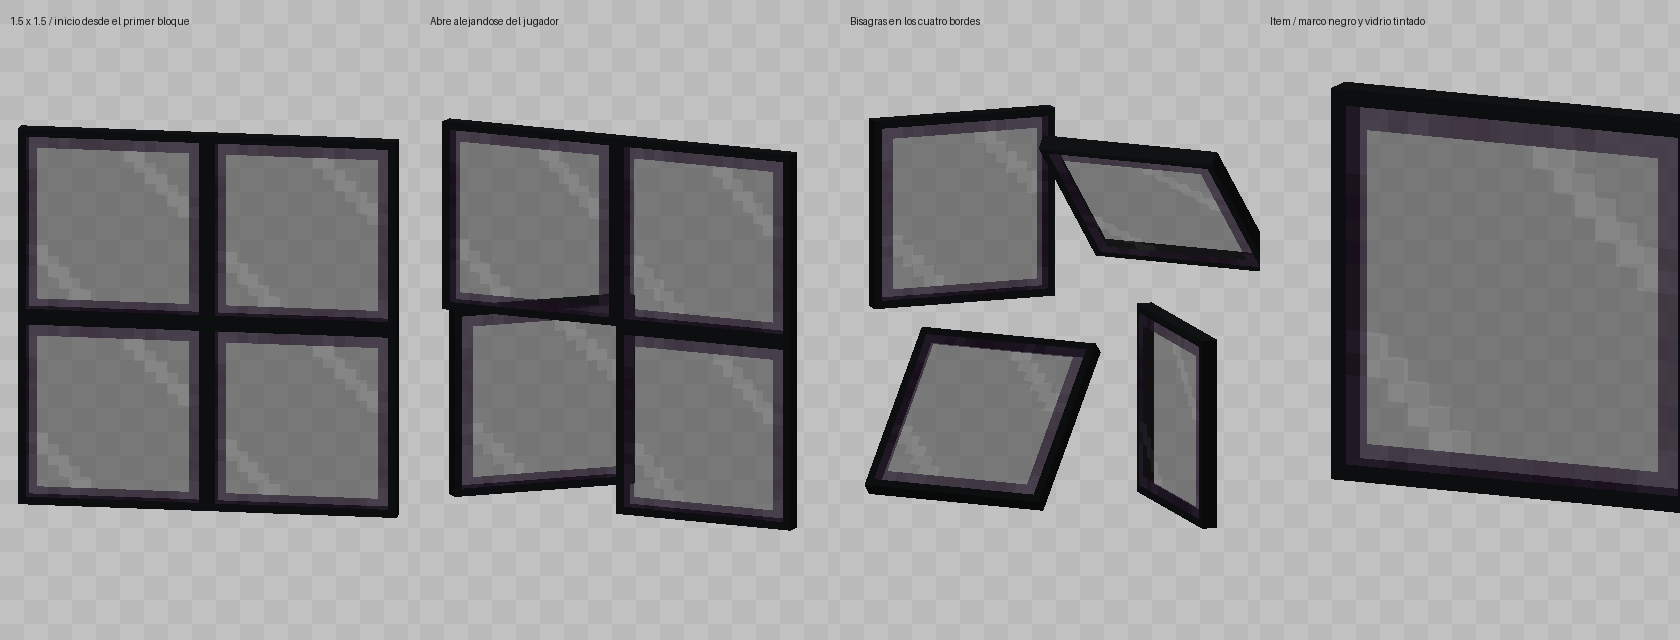
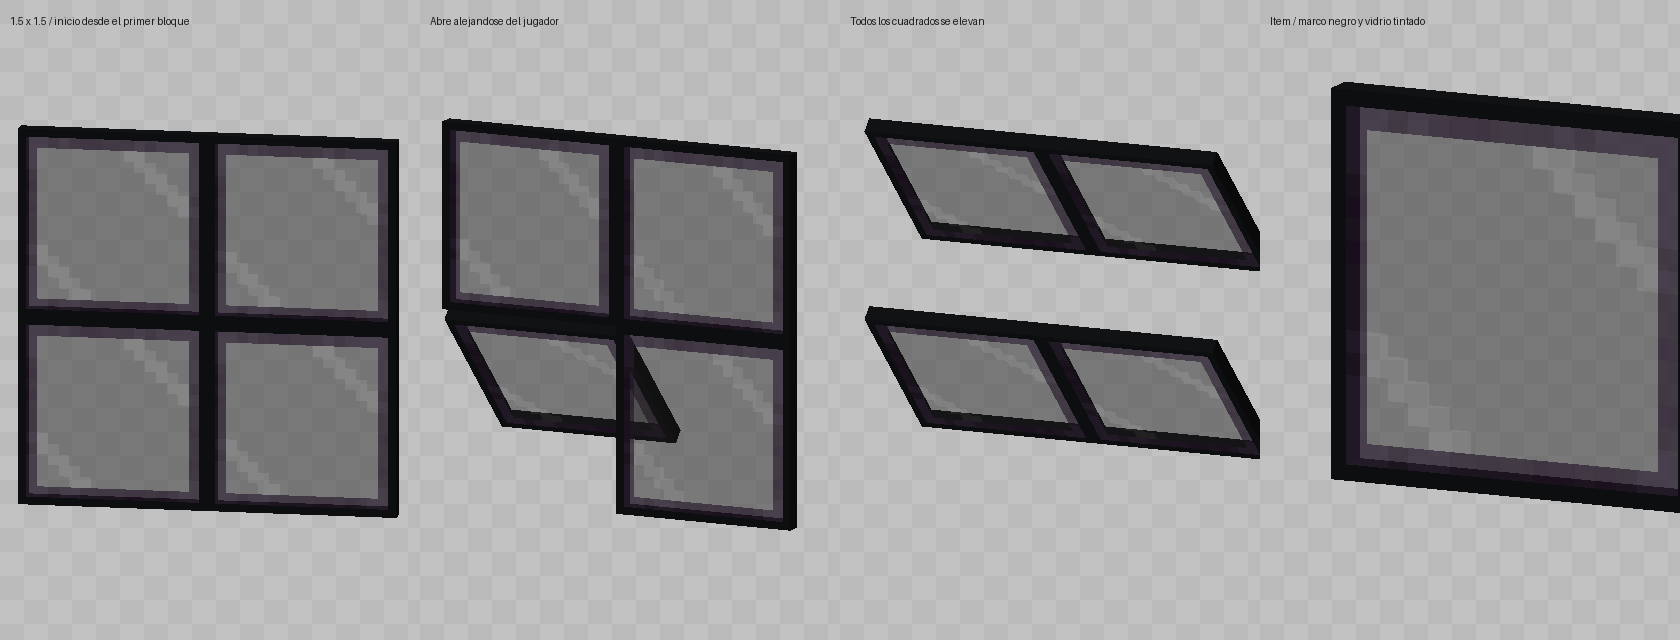
Open all projecting window panes upward on the top hinge

Changed region(s): [[0.4952, 0.1562, 0.7738, 0.8438], [0.2476, 0.4375, 0.4024, 0.7812], [0.4952, 0.0312, 0.5881, 0.0625]]

diff --git a/src/main/java/net/nicomar2009/lsmmod/block/SchoolProjectingWindowBlock.java b/src/main/java/net/nicomar2009/lsmmod/block/SchoolProjectingWindowBlock.java
@@ -41,7 +41,6 @@ public class SchoolProjectingWindowBlock extends Block {
     public static final EnumProperty<ProjectingWindowHinge> HINGE=EnumProperty.create("hinge",ProjectingWindowHinge.class);
     public static final IntegerProperty GRID_PHASE=IntegerProperty.create("grid_phase",0,9);
     public static final BooleanProperty WALL_LEFT=BooleanProperty.create("wall_left");
-    private static final int SCAN_LIMIT=64;
     /** Cell bounds and full pane origin in local north-facing coordinates. */
     public record Part(int x0,int x1,int y0,int y1,int ox,int oy) {}
     private record Axis(int low,int high,int origin) {}
@@ -120,14 +119,14 @@ public class SchoolProjectingWindowBlock extends Block {
         }
         return true;
     }
-    /** Closed fallback for missing controllers/chunks or a stale renderer state. */
+    /** All open sashes use the top hinge, including old saves with a different stored HINGE. */
     public static int pose(BlockGetter level,BlockPos pos,BlockState state,int index) {
         if(state==null||!(state.getBlock() instanceof SchoolProjectingWindowBlock)||pos==null)return 0;
         List<Part> parts=parts(state);
         if(index<0||index>=parts.size()||!visible(parts.get(index))||!same(read(level,pos),state))return 0;
         BlockPos origin=controller(pos,state.getValue(FACING).getClockWise(),parts.get(index));
         BlockState value=read(level,origin);
-        return same(value,state)&&complete(level,origin,state)&&value.getValue(OPEN)?1+value.getValue(HINGE).ordinal():0;
+        return same(value,state)&&complete(level,origin,state)&&value.getValue(OPEN)?1:0;
     }
     private static double[] pivot(Part part,int pose) {
         return new double[]{part.ox+(pose==4?24:0),part.oy+(pose==1?24:0),16};
@@ -272,41 +271,6 @@ public class SchoolProjectingWindowBlock extends Block {
         }
         return best;
     }
-    private static ProjectingWindowHinge nearestWall(Level level,BlockPos origin,BlockState state) {
-        Direction right=state.getValue(FACING).getClockWise();
-        Direction[] directions={Direction.UP,Direction.DOWN,right.getOpposite(),right};
-        ProjectingWindowHinge best=ProjectingWindowHinge.TOP;double nearest=Double.POSITIVE_INFINITY;
-        int grid=phase(level.getBlockState(origin));
-        int ox=grid%3==1?8:0,oy=grid/3==1?8:0;
-        int paneWidth=24,paneHeight=24;
-        for(int edge=0;edge<directions.length;edge++) {
-            // A solid half beside the shared sash is a wall at the sash edge.
-            if(edge>=2)for(int line=0;line<2;line++) {
-                BlockState boundary=read(level,origin.relative(right,edge==2?0:1).above(line));
-                if(halfWindow(boundary)&&boundary.getValue(WALL_LEFT)==(edge==2)
-                        &&(edge==2?ox==8:ox==0)&&nearest>0) {
-                    nearest=0;best=ProjectingWindowHinge.values()[edge];
-                }
-            }
-            for(int line=0;line<2;line++) {
-            Direction direction=directions[edge];boolean vertical=edge<2;
-            BlockPos start=vertical?origin.relative(right,line):origin.above(line);
-            for(int step=1;step<=SCAN_LIMIT;step++) {
-                BlockPos target=start.relative(direction,step);
-                if(!level.hasChunkAt(target)||level.isOutsideBuildHeight(target))break;
-                BlockState neighbor=level.getBlockState(target);
-                if(same(neighbor,state))continue;
-                if(neighbor.isFaceSturdy(level,target,direction.getOpposite())) {
-                    int offset=vertical?oy:ox;
-                    double distance=edge==0||edge==3?step*16-offset-(vertical?paneHeight:paneWidth):(step-1)*16+offset;
-                    if(distance<nearest){nearest=distance;best=ProjectingWindowHinge.values()[edge];}
-                }
-                break;
-            }
-            }
-        }
-        return best;
-    }
     private static void refresh(Level level,BlockPos origin,Direction facing) {
         Direction right=facing.getClockWise();
         for(int y=-1;y<=2;y++)for(int x=-1;x<=2;x++) {
@@ -335,7 +299,7 @@ public class SchoolProjectingWindowBlock extends Block {
         }
         if(level.isClientSide())return InteractionResult.SUCCESS;
         BlockState value=level.getBlockState(origin);boolean open=!value.getValue(OPEN);
-        ProjectingWindowHinge hinge=open?nearestWall(level,origin,state):value.getValue(HINGE);
+        ProjectingWindowHinge hinge=ProjectingWindowHinge.TOP;
         level.setBlock(origin,value.setValue(OPEN,open).setValue(HINGE,hinge),Block.UPDATE_ALL);
         refresh(level,origin,facing);
         level.playSound(null,pos,open?SoundEvents.IRON_DOOR_OPEN:SoundEvents.IRON_DOOR_CLOSE,SoundSource.BLOCKS,.4F,1.2F);

diff --git a/tools/render_school_projecting_window.py b/tools/render_school_projecting_window.py
@@ -23,13 +23,13 @@ def scene(poses, width=3, height=3):
 def main():
     closed = scene({})
     # A 3x3-block opening contains exactly four 24x24-pixel panes.
-    independent = scene({(0, 0): 3})
-    all_edges = scene({(0, 0): 2, (1, 0): 4, (0, 1): 3, (1, 1): 1})
+    independent = scene({(0, 0): 1})
+    all_edges = scene({(0, 0): 1, (1, 0): 1, (0, 1): 1, (1, 1): 1})
     item = []; add(item, load('lsmmod:item/'+ID))
     canvas = Image.new('RGB', (1680, 640))
     cases = [('1.5 x 1.5 / inicio desde el primer bloque', closed, [24, 24, 16], 8, -80),
              ('Abre alejandose del jugador', independent, [24, 24, 18], 8, -65),
-             ('Bisagras en los cuatro bordes', all_edges, [24, 24, 18], 8, -65),
+             ('Todos los cuadrados se elevan', all_edges, [24, 24, 18], 8, -65),
              ('Item / marco negro y vidrio tintado', item, [8, 8, 8], 25, -65)]
     for index, (label, elements, center, scale, azimuth) in enumerate(cases):
         canvas.paste(render(elements, center, scale, size=(420, 640), azimuth=azimuth, elevation=12), (420*index, 0))
@@ -41,8 +41,8 @@ def main():
         ImageDraw.Draw(reverse).text((420*index+10, 15), label, fill=(25, 25, 25))
     reverse.save(ROOT/'previews/school_projecting_window_reverse_review.png')
     half = Image.new('RGB',(1680,640))
-    cases=(('left',0,0,'Panel compartido / cerrado'),('left',3,4,'Panel compartido / abierto'),
-           ('right',4,2,'Mitad derecha / panel compartido'),('item',0,0,'Item / mitad fija'))
+    cases=(('left',0,0,'Panel compartido / cerrado'),('left',1,4,'Panel compartido / abierto'),
+           ('right',1,2,'Mitad derecha / panel compartido'),('item',0,0,'Item / mitad fija'))
     for index,(side,pose,color,label) in enumerate(cases):
         geometry=[]
         if side=='item':add(geometry,load('lsmmod:item/'+PAINTABLE_ID))

diff --git a/docs/BLOCK_SPECS.md b/docs/BLOCK_SPECS.md
@@ -18,8 +18,8 @@ Inventario real: `registry/ModBlocks.java` y `ModItems.java`. Para generar model
 | Enfermería | Sobreluz tintado y cristal posterior lateral desde y16; conexiones `main`/`side` independientes. dining_door_wide_light cambia solo el frente del lateral a light_school_wall |
 | Vidrio/cortinas | Cristal 8 px; conexiones por huella real y marcos por paridad de fila. Cortinas en áreas completas 1–4 de ancho × 1–8 de alto, dos clics; Shift al aire cancela. Un ítem/reembolso por área; puertas excluidas |
 | Vidrio tintado | school_tinted_glass: opaco sin conexión; school_connected_tinted_glass: misma opacidad con conexiones/cortinas. No convertirlo en vidrio transparente |
-| Ventanas proyectantes | school_projecting_window: grosor 2 px, marco negro y tintado vanilla oscurecido conservando alfa. Cuadrados de 1,5×1,5: el primer bloque inicia la retícula (fase cero), los siguientes prolongan ese origen; no depende de coordenadas mundiales. Plano en el borde más alejado del jugador y apertura a 45° en la dirección en que miraba al colocar. Cada cuadrado completo abre/cierra solo; bisagra hacia el borde firme más cercano de los cuatro lados. Conserva OPEN/HINGE; las ventanas antiguas sin fase se adaptan al usarlas o extenderlas, sin borrar esos campos (hasta 4096 celdas cargadas). No admite cortinas. Colisión girada aproximada por cuarto de píxel y contornos sencillos, caché por geometría/poses. Generador `tools/create_school_projecting_window_assets.py`; check `tools/check_school_glass.py --projecting-only`. Compilación y prueba en Minecraft pendientes. |
-| Mitad pintable y ventana | school_paintable_projecting_window: mitad sólida lateral (8×16×16 px) y cristal de 2 px en el borde lejano, integrado en la retícula de 24×24 px de las ventanas normales adyacentes. Los fragmentos comparten panel, bisagra y apertura; no forman hojas pequeñas independientes. El clic de colocación elige el lado sólido; la hoja abre a 45° con la misma dirección y selección de bisagra que la ventana normal. Solo el cristal se mueve. La mitad sólida usa los seis colores por cara y NBT del bloque pintable, incluidos pintura, copia, limpiador, lija y rectángulos; ninguna herramienta pinta el cristal o el marco. Pintura y apertura se guardan por separado, sin ticker para la pintura. Disponible en School Blocks. Comprobación `tools/check_paintable_school_block.py --projecting-half-only`; preview externa `previews/school_paintable_projecting_window_review.png`. |
+| Ventanas proyectantes | school_projecting_window: grosor 2 px, marco negro y tintado vanilla oscurecido conservando alfa. Cuadrados de 1,5×1,5: el primer bloque inicia la retícula (fase cero), los siguientes prolongan ese origen; no depende de coordenadas mundiales. Plano en el borde más alejado del jugador y apertura a 45° en la dirección en que miraba al colocar. Cada cuadrado completo abre/cierra solo; bisagra siempre superior: la parte inferior se eleva al abrir, también en ventanas ya guardadas. Conserva OPEN/HINGE; las ventanas antiguas sin fase se adaptan al usarlas o extenderlas, sin borrar esos campos (hasta 4096 celdas cargadas). No admite cortinas. Colisión girada aproximada por cuarto de píxel y contornos sencillos, caché por geometría/poses. Generador `tools/create_school_projecting_window_assets.py`; check `tools/check_school_glass.py --projecting-only`. Compilación y prueba en Minecraft pendientes. |
+| Mitad pintable y ventana | school_paintable_projecting_window: mitad sólida lateral (8×16×16 px) y cristal de 2 px en el borde lejano, integrado en la retícula de 24×24 px de las ventanas normales adyacentes. Los fragmentos comparten panel, bisagra y apertura; no forman hojas pequeñas independientes. El clic de colocación elige el lado sólido; la hoja abre a 45° con la misma dirección y bisagra superior que la ventana normal. Solo el cristal se mueve. La mitad sólida usa los seis colores por cara y NBT del bloque pintable, incluidos pintura, copia, limpiador, lija y rectángulos; ninguna herramienta pinta el cristal o el marco. Pintura y apertura se guardan por separado, sin ticker para la pintura. Disponible en School Blocks. Comprobación `tools/check_paintable_school_block.py --projecting-half-only`; preview externa `previews/school_paintable_projecting_window_review.png`. |
 | Baldosas | dark_school_tiled_floor / light_school_tiled_floor conservan alias de bloque/ítem bathroom_floor / light_bathroom_floor. No retirar esos alias |
 | Cubierta | dining_room_counter solo Y14..16 px, RGB22/31/37; nueve fases anteriores conservadas pero comparten modelo. Colisión/selección dejan hueco debajo; cara inferior visible sin cullface=down |
 | Columna | Fuste Ø28 px; base Ø34 px × 8 px solo abajo. Recorte contra paredes/pintables y uniones por material; caché física sin colores. Componentes Fusion con geometría válida |
